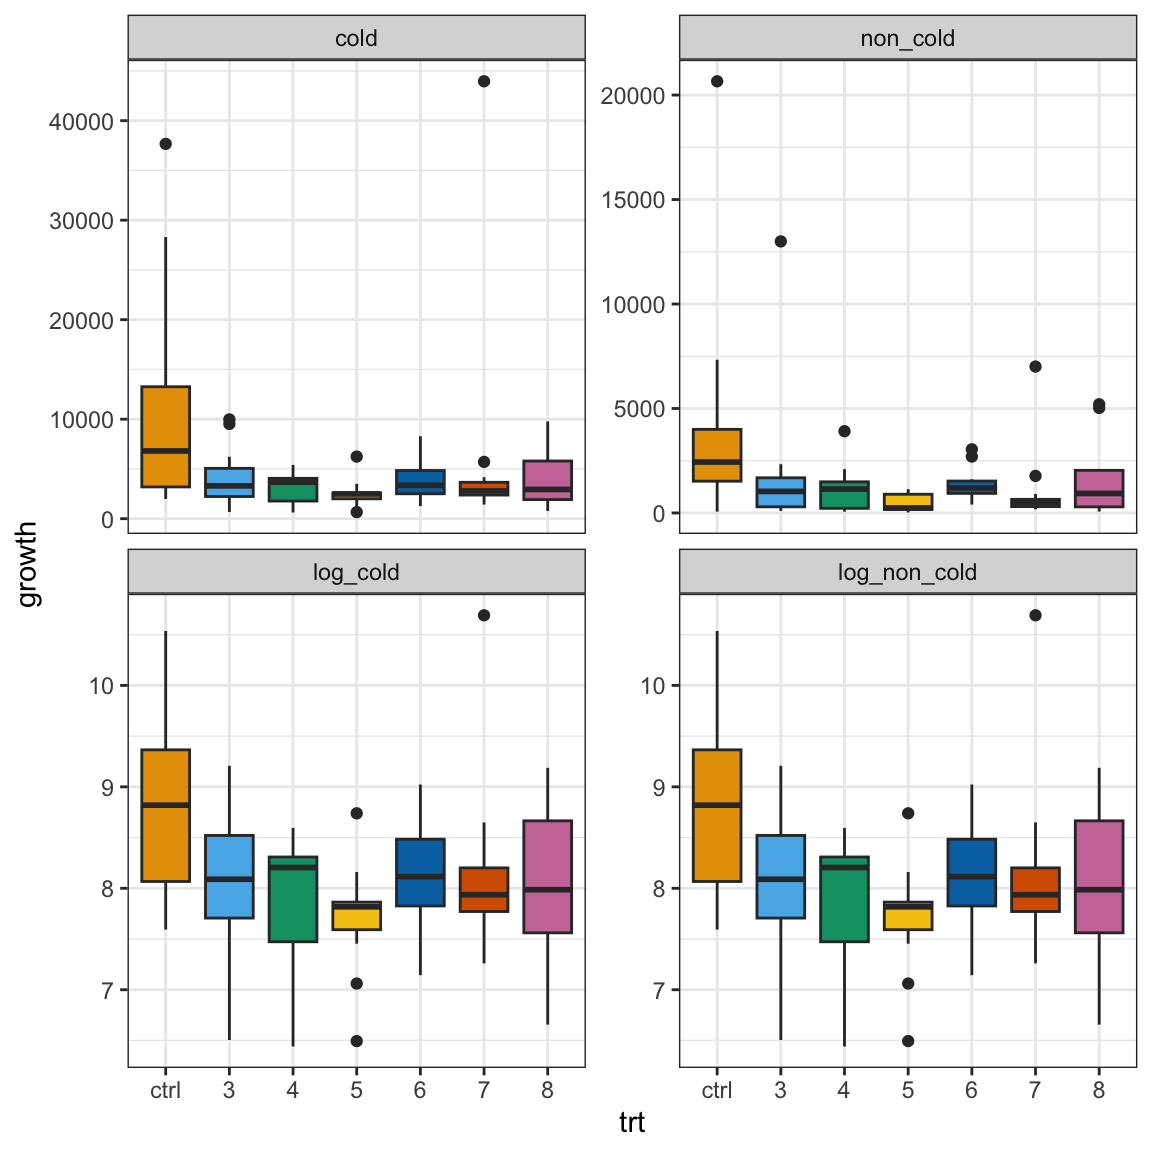
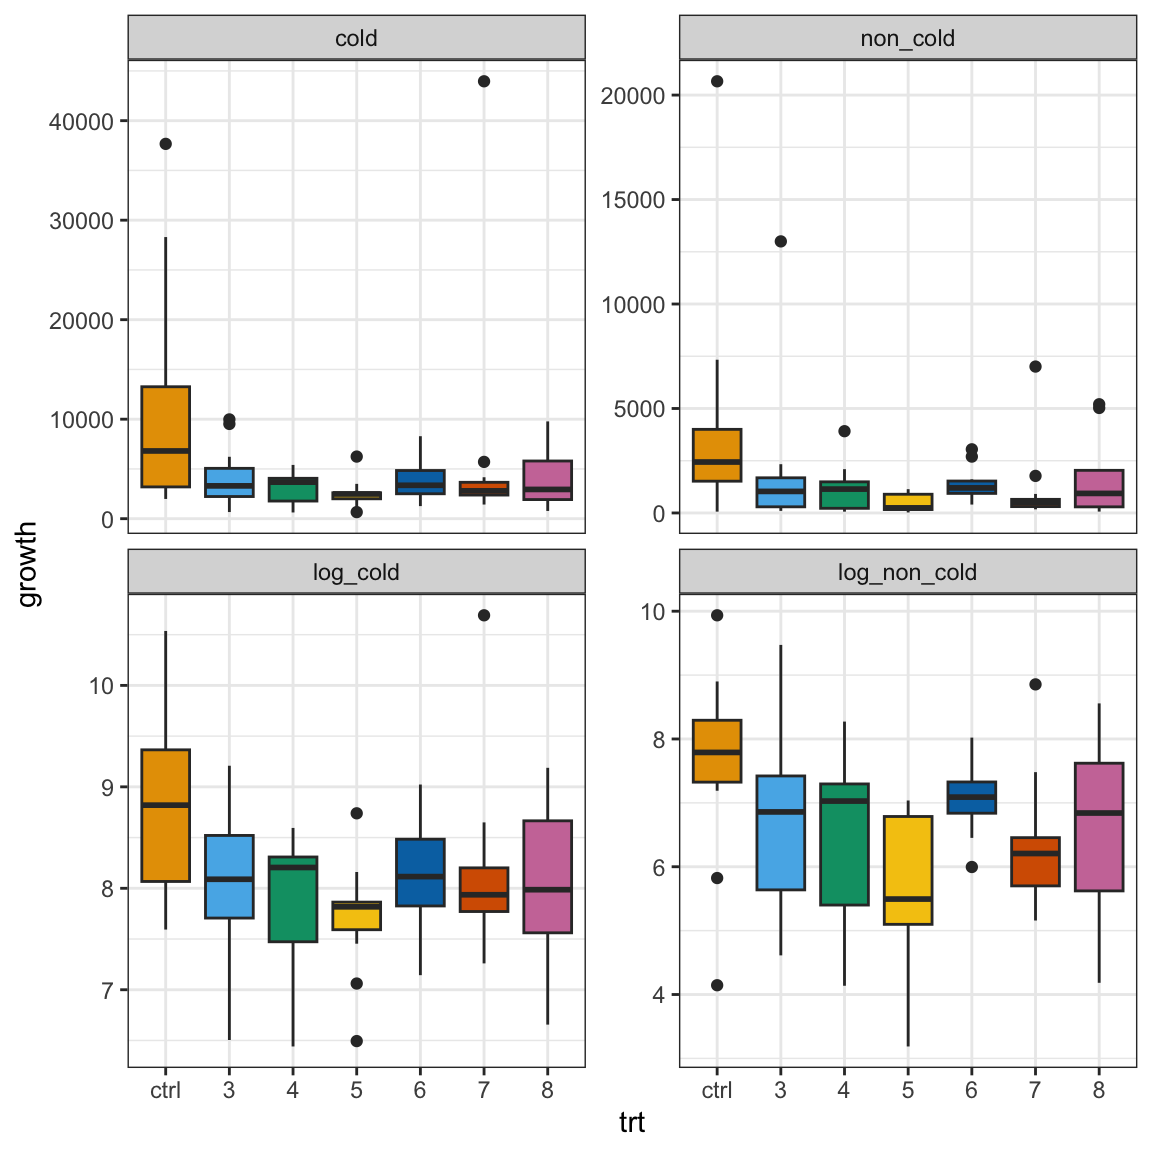
added text

diff --git a/docs/stat-modeling-noninferiority.html b/docs/stat-modeling-noninferiority.html
@@ -584,8 +584,9 @@ div.csl-indent {
   <ul>
 <li><a href="#genutzte-r-pakete-f%C3%BCr-das-kapitel" id="toc-genutzte-r-pakete-für-das-kapitel" class="nav-link active" data-scroll-target="#genutzte-r-pakete-f%C3%BCr-das-kapitel"><span class="toc-section-number">48.1</span>  Genutzte R Pakete für das Kapitel</a></li>
   <li><a href="#daten" id="toc-daten" class="nav-link" data-scroll-target="#daten"><span class="toc-section-number">48.2</span>  Daten</a></li>
-  <li><a href="#absch%C3%A4tzung-anhand-der-normalverteilung" id="toc-abschätzung-anhand-der-normalverteilung" class="nav-link" data-scroll-target="#absch%C3%A4tzung-anhand-der-normalverteilung"><span class="toc-section-number">48.3</span>  Abschätzung anhand der Normalverteilung</a></li>
-  <li><a href="#links" id="toc-links" class="nav-link" data-scroll-target="#links"><span class="toc-section-number">48.4</span>  Links</a></li>
+  <li><a href="#anova-mit-effektsch%C3%A4tzer" id="toc-anova-mit-effektschätzer" class="nav-link" data-scroll-target="#anova-mit-effektsch%C3%A4tzer"><span class="toc-section-number">48.3</span>  ANOVA mit Effektschätzer</a></li>
+  <li><a href="#%C3%A4quivalenztest" id="toc-äquivalenztest" class="nav-link" data-scroll-target="#%C3%A4quivalenztest"><span class="toc-section-number">48.4</span>  Äquivalenztest</a></li>
+  <li><a href="#links" id="toc-links" class="nav-link" data-scroll-target="#links"><span class="toc-section-number">48.5</span>  Links</a></li>
   </ul></nav>
     </div>
 <!-- main -->
@@ -606,7 +607,7 @@ div.csl-indent {
 </header><div class="cell">
 
 </div>
-<p><em>Version vom March 30, 2023 um 11:15:38</em></p>
+<p><em>Version vom March 30, 2023 um 11:27:40</em></p>
 <div class="quarto-figure quarto-figure-center">
 <figure class="figure"><p><img src="images/caution.png" class="img-fluid figure-img" style="width:50.0%"></p>
 </figure>
@@ -626,7 +627,8 @@ div.csl-indent {
 <div class="cell">
 <div class="sourceCode" id="cb1"><pre class="downlit sourceCode r code-with-copy"><code class="sourceCode R"><span><span class="fu">pacman</span><span class="fu">::</span><span class="fu"><a href="https://rdrr.io/pkg/pacman/man/p_load.html">p_load</a></span><span class="op">(</span><span class="va">tidyverse</span>, <span class="va">magrittr</span>, <span class="va">broom</span>, <span class="va">readxl</span>,</span>
 <span>               <span class="va">effectsize</span>, <span class="va">multcompView</span>, <span class="va">multcomp</span>,</span>
-<span>               <span class="va">janitor</span>, <span class="va">see</span>, <span class="va">conflicted</span><span class="op">)</span></span>
+<span>               <span class="va">janitor</span>, <span class="va">see</span>, <span class="va">parameters</span>, </span>
+<span>               <span class="va">conflicted</span><span class="op">)</span></span>
 <span><span class="fu">conflict_prefer</span><span class="op">(</span><span class="st">"select"</span>, <span class="st">"dplyr"</span><span class="op">)</span></span>
 <span><span class="fu">conflict_prefer</span><span class="op">(</span><span class="st">"filter"</span>, <span class="st">"dplyr"</span><span class="op">)</span></span>
 <span><span class="fu">conflict_prefer</span><span class="op">(</span><span class="st">"mutate"</span>, <span class="st">"dplyr"</span><span class="op">)</span></span>
@@ -727,7 +729,7 @@ div.csl-indent {
 <span>  <span class="fu"><a href="https://rdrr.io/r/stats/filter.html">filter</a></span><span class="op">(</span><span class="va">trt</span> <span class="op">!=</span> <span class="fl">1</span><span class="op">)</span> <span class="op">%&gt;%</span> </span>
 <span>  <span class="fu">mutate</span><span class="op">(</span>trt <span class="op">=</span> <span class="fu">as_factor</span><span class="op">(</span><span class="va">trt</span><span class="op">)</span>,</span>
 <span>         log_cold <span class="op">=</span> <span class="fu"><a href="https://rdrr.io/r/base/Log.html">log</a></span><span class="op">(</span><span class="va">cold</span><span class="op">)</span>,</span>
-<span>         log_non_cold <span class="op">=</span> <span class="fu"><a href="https://rdrr.io/r/base/Log.html">log</a></span><span class="op">(</span><span class="va">cold</span><span class="op">)</span>,</span>
+<span>         log_non_cold <span class="op">=</span> <span class="fu"><a href="https://rdrr.io/r/base/Log.html">log</a></span><span class="op">(</span><span class="va">non_cold</span><span class="op">)</span>,</span>
 <span>         trt <span class="op">=</span> <span class="fu">fct_recode</span><span class="op">(</span><span class="va">trt</span>, ctrl <span class="op">=</span> <span class="st">"2"</span><span class="op">)</span><span class="op">)</span> </span></code><button title="In die Zwischenablage kopieren" class="code-copy-button"><i class="bi"></i></button></pre></div>
 </div>
 <div class="cell" data-layout-align="center">
@@ -750,10 +752,94 @@ div.csl-indent {
 </div>
 </div>
 </div>
-</section><section id="abschätzung-anhand-der-normalverteilung" class="level2" data-number="48.3"><h2 data-number="48.3" class="anchored" data-anchor-id="abschätzung-anhand-der-normalverteilung">
-<span class="header-section-number">48.3</span> Abschätzung anhand der Normalverteilung</h2>
-</section><section id="links" class="level2" data-number="48.4"><h2 data-number="48.4" class="anchored" data-anchor-id="links">
-<span class="header-section-number">48.4</span> Links</h2>
+</section><section id="anova-mit-effektschätzer" class="level2" data-number="48.3"><h2 data-number="48.3" class="anchored" data-anchor-id="anova-mit-effektschätzer">
+<span class="header-section-number">48.3</span> ANOVA mit Effektschätzer</h2>
+<div class="cell">
+<div class="sourceCode" id="cb5"><pre class="downlit sourceCode r code-with-copy"><code class="sourceCode R"><span><span class="va">lm_non_cold_fit</span> <span class="op">&lt;-</span> <span class="fu"><a href="https://rdrr.io/r/stats/lm.html">lm</a></span><span class="op">(</span><span class="va">log_non_cold</span> <span class="op">~</span> <span class="va">trt</span>, data <span class="op">=</span> <span class="va">cold_seed_tbl</span><span class="op">)</span></span>
+<span></span>
+<span><span class="va">lm_non_cold_fit</span> <span class="op">%&gt;%</span> <span class="va">anova</span> <span class="op">%&gt;%</span> <span class="fu">model_parameters</span><span class="op">(</span><span class="op">)</span></span></code><button title="In die Zwischenablage kopieren" class="code-copy-button"><i class="bi"></i></button></pre></div>
+<div class="cell-output cell-output-stdout">
+<pre><code>Parameter | Sum_Squares | df | Mean_Square |    F |     p
+---------------------------------------------------------
+trt       |       26.39 |  6 |        4.40 | 2.75 | 0.018
+Residuals |      118.50 | 74 |        1.60 |      |      
+
+Anova Table (Type 1 tests)</code></pre>
+</div>
+</div>
+<div class="cell">
+<div class="sourceCode" id="cb7"><pre class="downlit sourceCode r code-with-copy"><code class="sourceCode R"><span><span class="va">lm_non_cold_fit</span> <span class="op">%&gt;%</span> <span class="fu">eta_squared</span><span class="op">(</span><span class="op">)</span></span></code><button title="In die Zwischenablage kopieren" class="code-copy-button"><i class="bi"></i></button></pre></div>
+<div class="cell-output cell-output-stdout">
+<pre><code># Effect Size for ANOVA
+
+Parameter | Eta2 |       95% CI
+-------------------------------
+trt       | 0.18 | [0.02, 1.00]
+
+- One-sided CIs: upper bound fixed at [1.00].</code></pre>
+</div>
+</div>
+<div class="cell">
+<div class="sourceCode" id="cb9"><pre class="downlit sourceCode r code-with-copy"><code class="sourceCode R"><span><span class="va">lm_cold_fit</span> <span class="op">&lt;-</span> <span class="fu"><a href="https://rdrr.io/r/stats/lm.html">lm</a></span><span class="op">(</span><span class="va">log_cold</span> <span class="op">~</span> <span class="va">trt</span>, data <span class="op">=</span> <span class="va">cold_seed_tbl</span><span class="op">)</span></span>
+<span></span>
+<span><span class="va">lm_cold_fit</span> <span class="op">%&gt;%</span> <span class="va">anova</span> <span class="op">%&gt;%</span> <span class="fu">model_parameters</span><span class="op">(</span><span class="op">)</span></span></code><button title="In die Zwischenablage kopieren" class="code-copy-button"><i class="bi"></i></button></pre></div>
+<div class="cell-output cell-output-stdout">
+<pre><code>Parameter | Sum_Squares | df | Mean_Square |    F |     p
+---------------------------------------------------------
+trt       |        9.80 |  6 |        1.63 | 2.71 | 0.020
+Residuals |       44.59 | 74 |        0.60 |      |      
+
+Anova Table (Type 1 tests)</code></pre>
+</div>
+</div>
+<div class="cell">
+<div class="sourceCode" id="cb11"><pre class="downlit sourceCode r code-with-copy"><code class="sourceCode R"><span><span class="va">lm_cold_fit</span> <span class="op">%&gt;%</span> <span class="fu">eta_squared</span><span class="op">(</span><span class="op">)</span></span></code><button title="In die Zwischenablage kopieren" class="code-copy-button"><i class="bi"></i></button></pre></div>
+<div class="cell-output cell-output-stdout">
+<pre><code># Effect Size for ANOVA
+
+Parameter | Eta2 |       95% CI
+-------------------------------
+trt       | 0.18 | [0.02, 1.00]
+
+- One-sided CIs: upper bound fixed at [1.00].</code></pre>
+</div>
+</div>
+</section><section id="äquivalenztest" class="level2" data-number="48.4"><h2 data-number="48.4" class="anchored" data-anchor-id="äquivalenztest">
+<span class="header-section-number">48.4</span> Äquivalenztest</h2>
+<div class="cell">
+<div class="sourceCode" id="cb13"><pre class="downlit sourceCode r code-with-copy"><code class="sourceCode R"><span><span class="va">res_non_cold</span> <span class="op">&lt;-</span> <span class="fu">equivalence_test</span><span class="op">(</span><span class="va">lm_non_cold_fit</span>, </span>
+<span>                                 ci <span class="op">=</span> <span class="fl">0.95</span>,</span>
+<span>                                 range <span class="op">=</span> <span class="fu"><a href="https://rdrr.io/r/base/c.html">c</a></span><span class="op">(</span><span class="op">-</span><span class="fl">0.5</span>, <span class="fl">0.5</span><span class="op">)</span><span class="op">)</span></span></code><button title="In die Zwischenablage kopieren" class="code-copy-button"><i class="bi"></i></button></pre></div>
+</div>
+<div class="cell" data-layout-align="center">
+<div class="sourceCode" id="cb14"><pre class="downlit sourceCode r code-with-copy"><code class="sourceCode R"><span><span class="fu"><a href="https://rdrr.io/r/graphics/plot.default.html">plot</a></span><span class="op">(</span><span class="va">res_non_cold</span><span class="op">)</span> <span class="op">+</span></span>
+<span>  <span class="fu">theme_minimal</span><span class="op">(</span><span class="op">)</span></span></code><button title="In die Zwischenablage kopieren" class="code-copy-button"><i class="bi"></i></button></pre></div>
+<div class="cell-output-display">
+<div id="fig-noninf-2" class="quarto-figure quarto-figure-center anchored">
+<figure class="figure"><p><img src="stat-modeling-noninferiority_files/figure-html/fig-noninf-2-1.png" class="img-fluid figure-img" width="576"></p>
+<p></p><figcaption class="figure-caption">Abbildung&nbsp;48.2— test</figcaption><p></p>
+</figure>
+</div>
+</div>
+</div>
+<div class="cell">
+<div class="sourceCode" id="cb15"><pre class="downlit sourceCode r code-with-copy"><code class="sourceCode R"><span><span class="va">res_cold</span> <span class="op">&lt;-</span> <span class="fu">equivalence_test</span><span class="op">(</span><span class="va">lm_cold_fit</span>, </span>
+<span>                             ci <span class="op">=</span> <span class="fl">0.95</span>,</span>
+<span>                             range <span class="op">=</span> <span class="fu"><a href="https://rdrr.io/r/base/c.html">c</a></span><span class="op">(</span><span class="op">-</span><span class="fl">0.5</span>, <span class="fl">0.5</span><span class="op">)</span><span class="op">)</span></span></code><button title="In die Zwischenablage kopieren" class="code-copy-button"><i class="bi"></i></button></pre></div>
+</div>
+<div class="cell" data-layout-align="center">
+<div class="sourceCode" id="cb16"><pre class="downlit sourceCode r code-with-copy"><code class="sourceCode R"><span><span class="fu"><a href="https://rdrr.io/r/graphics/plot.default.html">plot</a></span><span class="op">(</span><span class="va">res_cold</span><span class="op">)</span> <span class="op">+</span></span>
+<span>  <span class="fu">theme_minimal</span><span class="op">(</span><span class="op">)</span></span></code><button title="In die Zwischenablage kopieren" class="code-copy-button"><i class="bi"></i></button></pre></div>
+<div class="cell-output-display">
+<div id="fig-noninf-3" class="quarto-figure quarto-figure-center anchored">
+<figure class="figure"><p><img src="stat-modeling-noninferiority_files/figure-html/fig-noninf-3-1.png" class="img-fluid figure-img" width="576"></p>
+<p></p><figcaption class="figure-caption">Abbildung&nbsp;48.3— test</figcaption><p></p>
+</figure>
+</div>
+</div>
+</div>
+</section><section id="links" class="level2" data-number="48.5"><h2 data-number="48.5" class="anchored" data-anchor-id="links">
+<span class="header-section-number">48.5</span> Links</h2>
 <p>https://www.bmj.com/content/311/7003/485</p>
 <p>https://www.google.com/search?q=noninferiority+R&amp;sxsrf=AJOqlzW7GmsZSD9QfcFTDil2ONGUUNudHw%3A1674985644154&amp;ei=rEDWY4CKCeaSxc8PoO6D6Ag&amp;ved=0ahUKEwiAkMviv-z8AhVmSfEDHSD3AI0Q4dUDCBA&amp;uact=5&amp;oq=noninferiority+R&amp;gs_lcp=Cgxnd3Mtd2l6LXNlcnAQAzIICAAQgAQQywEyCAgAEIAEEMsBMggIABCABBDLATIICAAQFhAeEAoyBggAEBYQHjIGCAAQFhAeMgsIABAeEA0QDxDxBDILCAAQHhANEA8Q8QQyBggAEBYQHjIGCAAQFhAeOgUIABCABDoHCAAQgAQQCkoECEEYAEoECEYYAFAAWJoJYMUKaABwAXgAgAFZiAGEApIBATOYAQCgAQKgAQHAAQE&amp;sclient=gws-wiz-serp</p>
 <p>https://cran.r-project.org/web/packages/PowerTOST/vignettes/NI.html</p>
